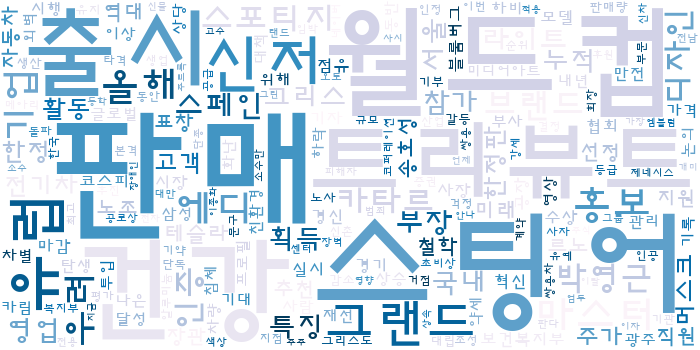
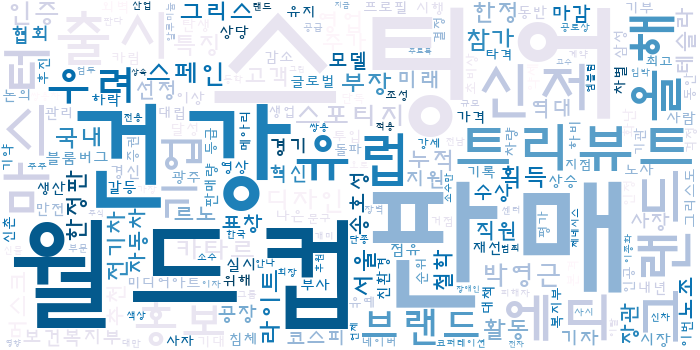
fix

diff --git a/stock/templates/show.html b/stock/templates/show.html
@@ -14,7 +14,8 @@
 		<span>감성 그래프 및 워드클라우드</span>
 	</h3>
 	  <canvas id="sent_Chart" style="width: 700px; height:350px; margin-bottom:30px;"></canvas>
-	  <img src="/static/images/{{url}}"  width=700, height=350 style='box-shadow:2px 2px 2px 2px #eee; padding:10px;' >
+	  <!--<img src="/static/images/{{url}}"  width=700, height=350 style='box-shadow:2px 2px 2px 2px #eee; padding:10px;' >-->
+	  <img src="/static/images/{{url}}.png"  width=700, height=350 >
 </div>
 
 <script>

diff --git a/stock/static/css/index.css b/stock/static/css/index.css
@@ -245,7 +245,7 @@ canvas{
 .result1 p{
 	/* margin-top:10px; */
 	/* border: 1px solid #dcdcdc; */
-	width: 350px;
+	width: 400px;
 	/* background-color: #dcdcdc; */
 	/* border-radius: 8px; */
 	text-align: center;
@@ -265,7 +265,7 @@ canvas{
 	border-radius:5px;
 	padding:5px;
 	padding-bottom:8px;
-	width:210px;
+	width:228px;
 	font-size: 16px;
 }
 .h3title span{

diff --git a/stock/views.py b/stock/views.py
@@ -377,7 +377,8 @@ def stockShow(request):
     elif result >= 500000:
         pass
     
-    url = cloudShow(NaverFinance, stockName)
+    # url = cloudShow(NaverFinance, stockName)
+    url = cloudShow(file_path)
     
     #stock_close_df, pred은 dataframe type
     stock_close_df, pred = graphShow(file_path, stockName, result)
@@ -552,48 +553,52 @@ def financialNews(url):
 
     return NaverFinanceSI, NaverFinance
 
-def cloudShow(NaverFinance, stockName):
-    okt = Okt()
-    data = NaverFinance
-    title = data['title'].to_string()
-    words = okt.nouns(title) #명사추출
-
-    #불용어 제거
-    if stockName == '373220' : #엘지
-        stopwords = ['에너지', '솔루션','특징','포토']
-    elif stockName == '000270' : #기아
-        stopwords = ['기아', '현대차','현대','기아차']
-    elif stockName == '000660' : #sk
-        stopwords = ['하이닉스', '목표','특징','포토']
-    elif stockName == '005930' : #삼성
-        stopwords = ['전자','삼성','부회장','특징','포토']
-    elif stockName == '005380' : #현대
-        stopwords = ['현대차','기아','특징','포토']
-    elif stockName == '035720': #카카오
-        stopwords = ['카카오','페이','대표', '특징','포토']
-    else:stopwords = ['대표', '특징','포토']
-
-    #명사가 한글자거나 불용어에 포함되지 않은것만 추출
-    result =  [x for x in words if x not in stopwords and len(x) > 1]
-    
-    #빈도수 카운트
-    count_list = Counter(result)
-    
-    img_folder = settings.BASE_DIR / 'stock' / 'static' / 'images'
-    file_path = os.path.join(img_folder, os.path.basename('shape.png'))
-    img=Image.open(file_path) #이미지 파일 읽어오기
-    imgArray=np.array(img) #픽셀 값을 배열 형태 변환
-    
-    font_folder = settings.BASE_DIR / 'stock' / 'static' / 'font'
-    file_path = os.path.join(img_folder, os.path.basename('HYNAMB.TTF'))
-    
-    my_wc = WordCloud(font_path = file_path, width=700, height=350, relative_scaling=0.2, colormap='PuBu_r',
-                      background_color='white').generate_from_frequencies(count_list) #mask=imgArray
-    
-    file_path = os.path.join(img_folder, os.path.basename('wcloud.png'))
-    my_wc.to_file(file_path)
-    url= os.path.basename(file_path) #절대경로에서 파일명만 추출
-    return url
+def cloudShow(file_path):
+    if "kia_model" in str(file_path):
+        url = "KIA_wcloud"
+        
+# def cloudShow(NaverFinance, stockName):
+#     okt = Okt()
+#     data = NaverFinance
+#     title = data['title'].to_string()
+#     words = okt.nouns(title) #명사추출
+#
+#     #불용어 제거
+#     if stockName == '373220' : #엘지
+#         stopwords = ['에너지', '솔루션','특징','포토']
+#     elif stockName == '000270' : #기아
+#         stopwords = ['기아', '현대차','현대','기아차']
+#     elif stockName == '000660' : #sk
+#         stopwords = ['하이닉스', '목표','특징','포토']
+#     elif stockName == '005930' : #삼성
+#         stopwords = ['전자','삼성','부회장','특징','포토']
+#     elif stockName == '005380' : #현대
+#         stopwords = ['현대차','기아','특징','포토']
+#     elif stockName == '035720': #카카오
+#         stopwords = ['카카오','페이','대표', '특징','포토']
+#     else:stopwords = ['대표', '특징','포토']
+#
+#     #명사가 한글자거나 불용어에 포함되지 않은것만 추출
+#     result =  [x for x in words if x not in stopwords and len(x) > 1]
+#
+#     #빈도수 카운트
+#     count_list = Counter(result)
+#
+#     img_folder = settings.BASE_DIR / 'stock' / 'static' / 'images'
+#     file_path = os.path.join(img_folder, os.path.basename('shape.png'))
+#     img=Image.open(file_path) #이미지 파일 읽어오기
+#     imgArray=np.array(img) #픽셀 값을 배열 형태 변환
+#
+#     font_folder = settings.BASE_DIR / 'stock' / 'static' / 'font'
+#     file_path = os.path.join(img_folder, os.path.basename('HYNAMB.TTF'))
+#
+#     my_wc = WordCloud(font_path = file_path, width=700, height=350, relative_scaling=0.2, colormap='PuBu_r',
+#                       background_color='white').generate_from_frequencies(count_list) #mask=imgArray
+#
+#     file_path = os.path.join(img_folder, os.path.basename('wcloud.png'))
+#     my_wc.to_file(file_path)
+#     url= os.path.basename(file_path) #절대경로에서 파일명만 추출
+#     return url
 
 def graphShow(file_path, stockName, result):
     if "kia_model" in str(file_path):
